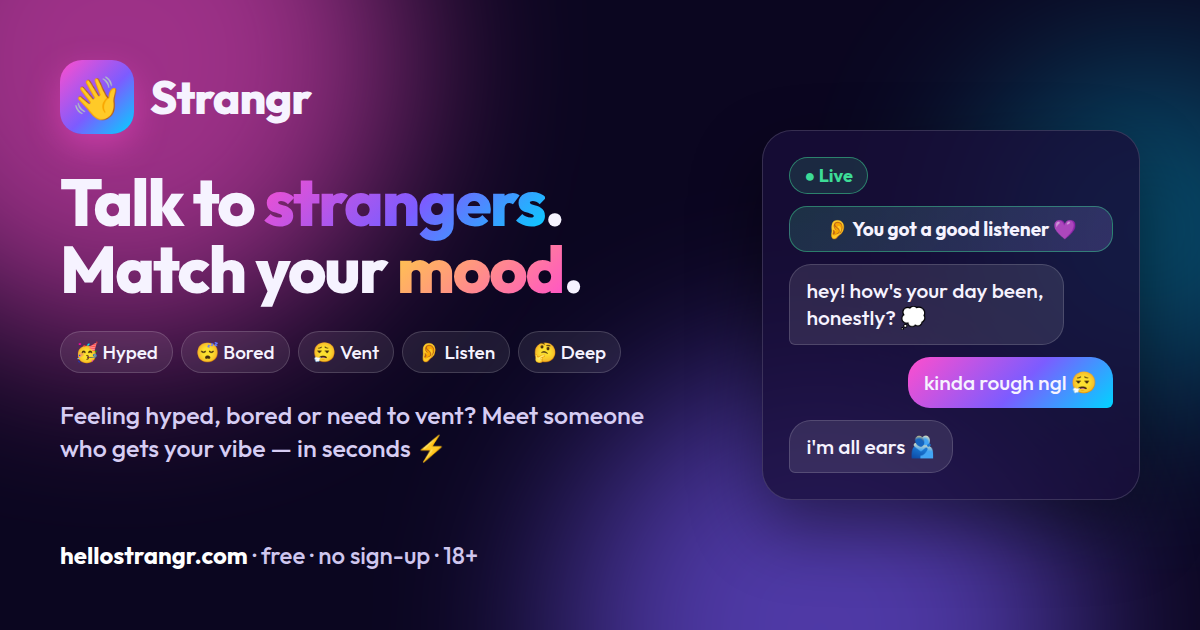
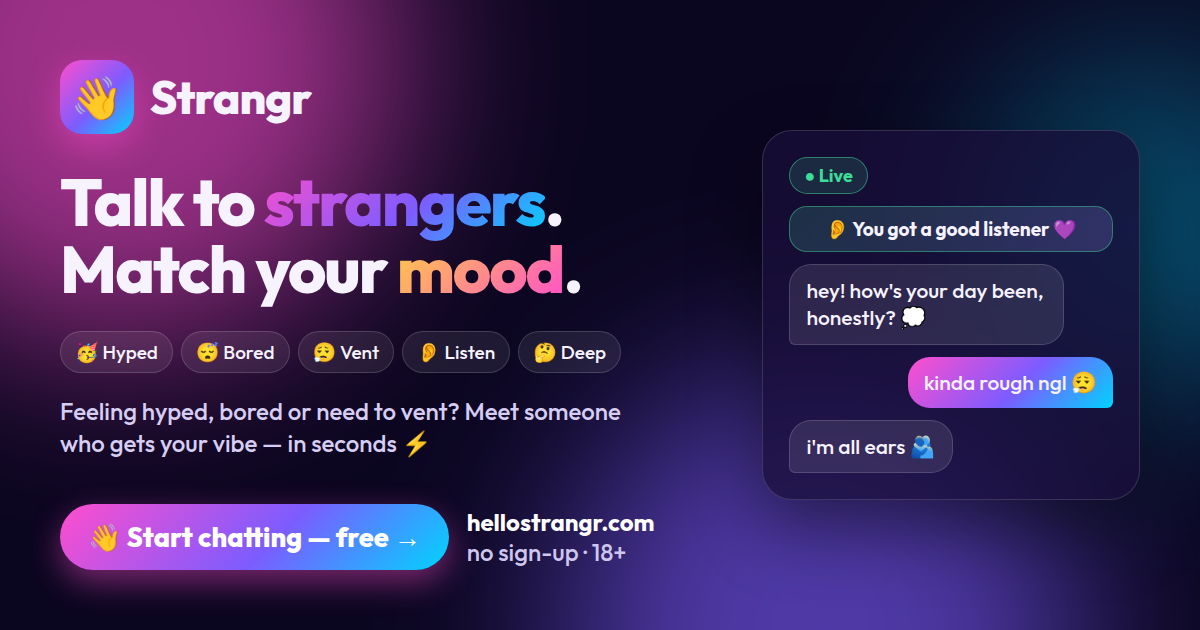
Link preview: CTA on image, shorter description

Changed region(s): [[0.0308, 0.7841, 0.555, 0.9651], [0.0308, 0.6333, 0.5242, 0.7238]]

diff --git a/frontend/index.html b/frontend/index.html
@@ -13,8 +13,9 @@
     <meta property="og:site_name" content="Strangr" />
     <meta property="og:url" content="https://hellostrangr.com/" />
     <meta property="og:title" content="Strangr 👋 Talk to strangers. Match your mood." />
-    <meta property="og:description" content="Feeling hyped, bored or need to vent? Get matched with someone who gets your vibe. Free random video & text chat — no sign-up." />
-    <meta property="og:image" content="https://hellostrangr.com/og-image.png" />
+    <meta property="og:description" content="Feeling hyped, bored or need to vent? Meet someone who gets your vibe. Free video &amp; text chat, no sign-up." />
+    <meta property="og:image" content="https://hellostrangr.com/og-image.png?v=2" />
+    <meta property="og:image:type" content="image/png" />
     <meta property="og:image:width" content="1200" />
     <meta property="og:image:height" content="630" />
     <meta property="og:image:alt" content="Strangr — talk to strangers, match your mood" />
@@ -23,8 +24,8 @@
     <!-- X / Twitter -->
     <meta name="twitter:card" content="summary_large_image" />
     <meta name="twitter:title" content="Strangr 👋 Talk to strangers. Match your mood." />
-    <meta name="twitter:description" content="Free random video & text chat, matched by mood and interests. No sign-up." />
-    <meta name="twitter:image" content="https://hellostrangr.com/og-image.png" />
+    <meta name="twitter:description" content="Feeling hyped, bored or need to vent? Meet someone who gets your vibe. Free video &amp; text chat, no sign-up." />
+    <meta name="twitter:image" content="https://hellostrangr.com/og-image.png?v=2" />
 
     <link rel="icon" href="/favicon.svg" type="image/svg+xml" />
     <link rel="icon" href="/favicon-32.png" sizes="32x32" type="image/png" />
